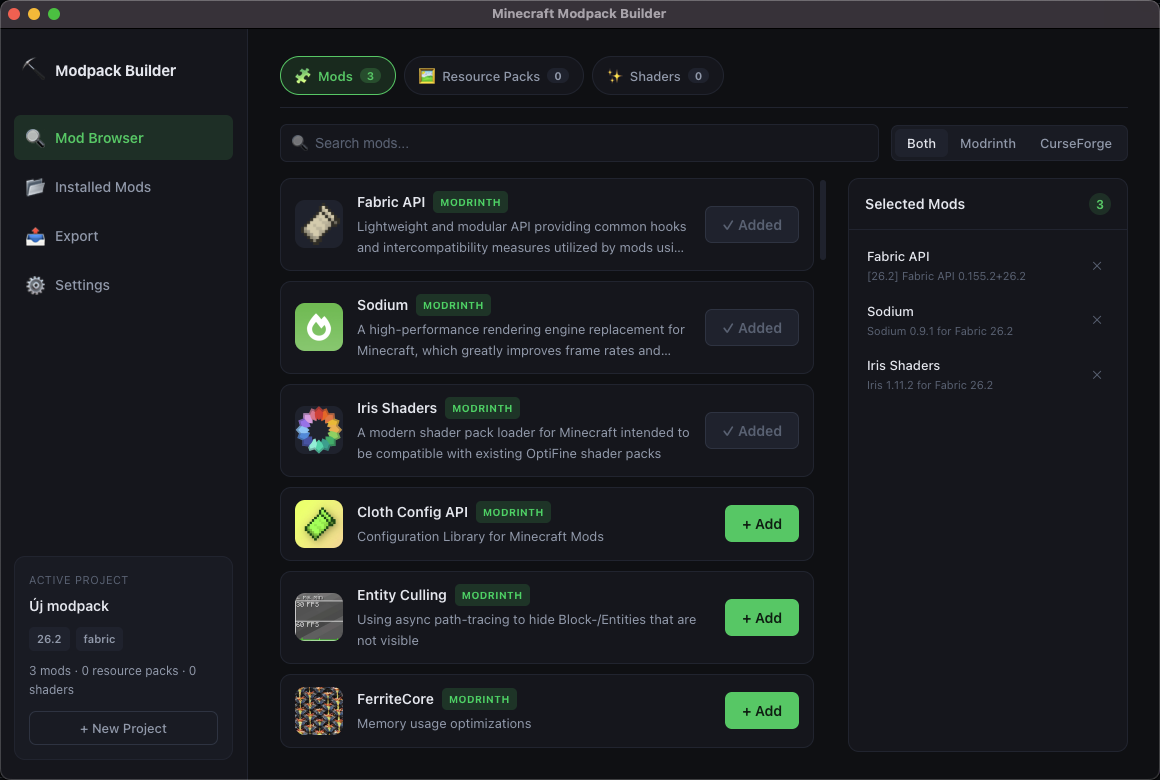
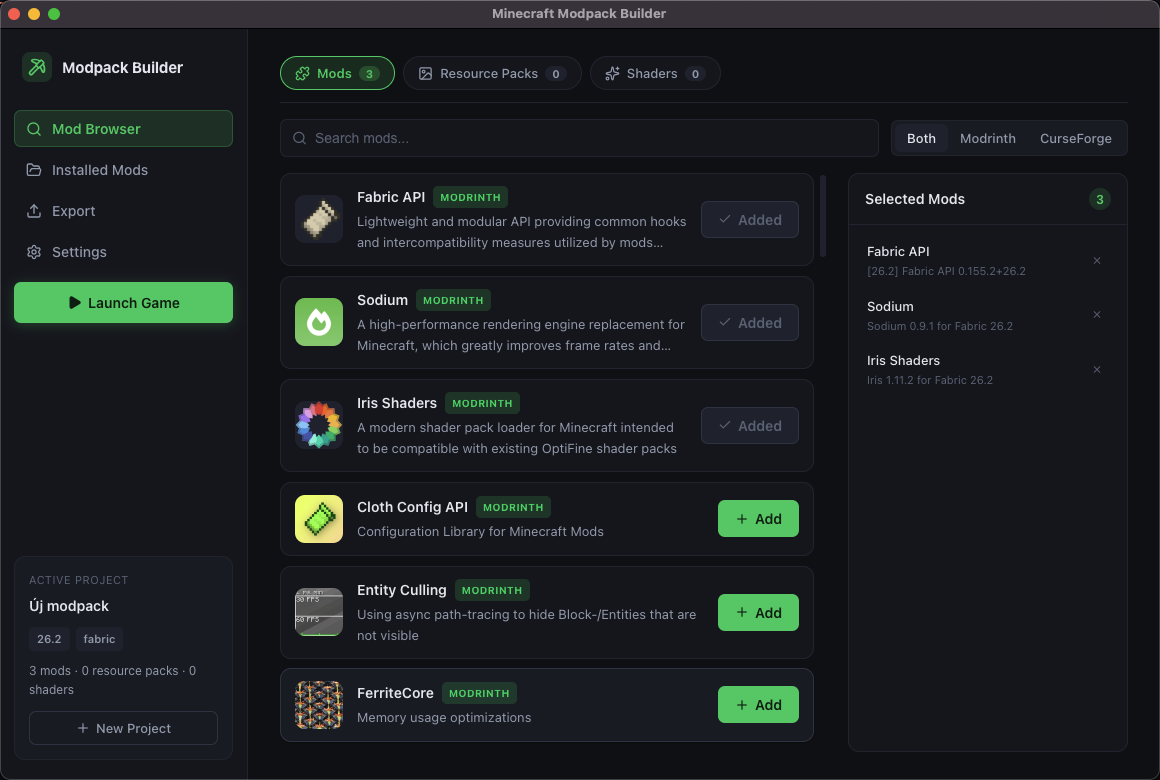
Update README and screenshot for v1.1.0
Fresh screenshot showing the lucide-react icon redesign and the new Launch Game button. README now mentions the Launch Game feature and the full 14-language list.

diff --git a/README.md b/README.md
@@ -12,7 +12,8 @@ A desktop app for building Minecraft modpacks: search [Modrinth](https://modrint
   - a plain `mods/` / `resourcepacks/` / `shaderpacks/` folder structure, for launchers with no modpack-format support (TLauncher, the official Minecraft launcher)
   - `.mrpack` (Modrinth pack format), importable into Prism Launcher and other compatible launchers
   - a CurseForge modpack zip, importable into the CurseForge app
-- **Multi-language UI** — English, Magyar, Deutsch, Español (more can be added easily)
+- **Launch Game button** — pick your launcher (official Minecraft Launcher or TLauncher) in Settings and open it with one click from the sidebar. It only opens the launcher app; point its game directory at your exported folder once and you're set.
+- **14 languages** — English, Magyar, Deutsch, Español, Français, Português, Русский, 中文, Italiano, Polski, Türkçe, 日本語, 한국어, Nederlands (more can be added easily)
 - Your CurseForge API key is encrypted at rest via Electron's `safeStorage` and never leaves your machine
 
 ## Installing
@@ -60,7 +61,7 @@ Pushing a tag matching `v*.*.*` (e.g. `v1.0.0`) triggers [`.github/workflows/rel
 
 ## Tech stack
 
-Electron + [electron-vite](https://electron-vite.org/), React, TypeScript, Zustand, TanStack Query, react-i18next.
+Electron + [electron-vite](https://electron-vite.org/), React, TypeScript, Zustand, TanStack Query, react-i18next, lucide-react.
 
 All network calls (Modrinth/CurseForge APIs) run in the main process; the renderer talks to it through a typed `contextBridge` preload API.
 